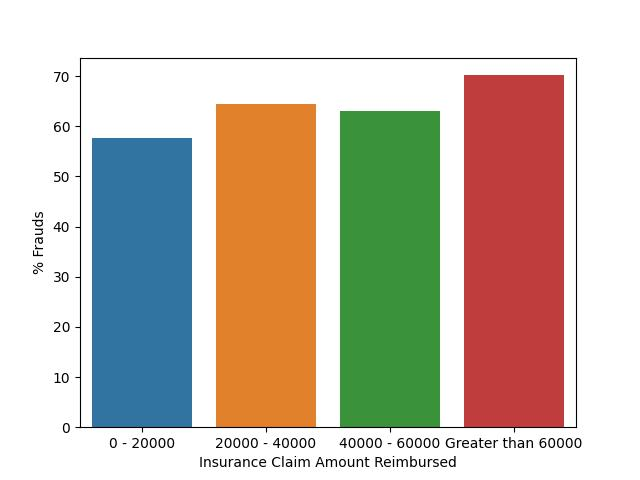
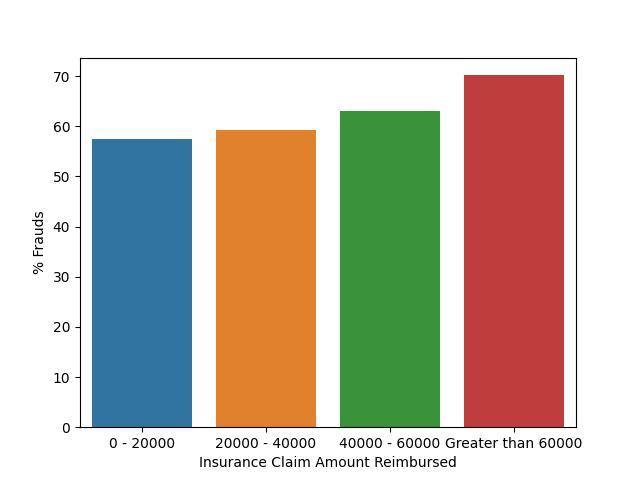
Visualizations Dynamic

Changed region(s): [[0.3125, 0.1875, 0.5, 0.2812]]

diff --git a/FraudDetection/templates/start-page.htm b/FraudDetection/templates/start-page.htm
@@ -167,8 +167,7 @@
             
           <div class="row">
           <div class="column">
-          <img src="{{ url_for('static', filename='images/visualization1.jpg') }}" alt="My" width="380" 
-           height="200">
+          <div id="chart1" class="chart1" style="height:200px; width:380px;"></div>
           </div>
           <div class="column">
           <div id="chart" class="chart" style="height:200px; width:380px;"></div>
@@ -177,12 +176,10 @@
           <div class="row">
           <div class="column">
           
-          <img src="{{ url_for('static', filename='images/visualization3.jpg') }}" alt="My" width="380" 
-           height="200">
+          <div id="chart3" class="chart3" style="height:200px; width:380px;"></div>
           </div>
           <div class="column">
-          <img src="{{ url_for('static', filename='images/visualization4.jpg') }}" alt="My Image" width="380" 
-           height="200">
+          <div id="chart4" class="chart4" style="height:200px; width:380px;"></div>
           </div>
            </div>        
 	</div>
@@ -200,4 +197,19 @@
              <script type="text/javascript">
              var graphs = {{graphJSON | safe}};
              Plotly.plot('chart',graphs,{});        
+</script>
+<script src="https://cdn.plot.ly/plotly-latest.min.js"></script>
+             <script type="text/javascript">
+             var graphs = {{graphjson1 | safe}};
+             Plotly.plot('chart1',graphs,{displaylogo: false});        
+</script>
+<script src="https://cdn.plot.ly/plotly-latest.min.js"></script>
+             <script type="text/javascript">
+             var graphs = {{graphjson3 | safe}};
+             Plotly.plot('chart3',graphs,{displaylogo: false});        
+</script>
+<script src="https://cdn.plot.ly/plotly-latest.min.js"></script>
+             <script type="text/javascript">
+             var graphs = {{graphjson4 | safe}};
+             Plotly.plot('chart4',graphs,{displaylogo: false});        
 </script>

diff --git a/FraudDetection/script/main.py b/FraudDetection/script/main.py
@@ -8,8 +8,8 @@ import os
 import json
 import io
 import pandas as pd
-import seaborn as sns
-import matplotlib.pyplot as plt
+#import seaborn as sns
+#import matplotlib.pyplot as plt
 from flask import Flask, request, render_template, session, Response
 
 sys.path.append(os.path.abspath("./FraudDetection/models"))
@@ -17,7 +17,7 @@ sys.path.append(os.path.abspath("./FraudDetection/models"))
 # pylint: disable=C0413
 # pylint: disable=R1735
 import plotly
-#import plotly.express as px
+import plotly.express as px
 import plotly.graph_objects as go
 from models import loda_anomaly_detection
 from models import ecod_anomaly_detection
@@ -78,8 +78,6 @@ def state_wise_visualization(inpatient_final_df,state_mapping):
              text=grouped['State_Name'], # hover text
              marker_line_color='white', # line markers between states
         ))
-
-
     fig.update_layout(
         title_text = '% of Frauds by State',
         geo = dict(
@@ -107,11 +105,16 @@ def first_visualization(inpatient_final_df):
     grouped['Total'] = grouped['No'] + grouped['Yes']
     grouped['% Frauds'] = grouped['Yes']*100/grouped['Total']
     grouped.sort_values(by = ['% Frauds'],inplace=True, ascending = True)
-    axis = sns.barplot(x = 'Days_Admitted_Bucket',
-            y = '% Frauds',
-            data = grouped)
-    axis.set(xlabel='Number of Days Admitted', ylabel='% Frauds')
-    plt.savefig('FraudDetection/static/images/days_admitted_visualization.jpg')
+    fig = px.bar(grouped, x='Days_Admitted_Bucket', y='% Frauds')
+    fig.update_traces(marker_color=['#071633', '#0DEFFF'], showlegend=False)
+    fig.update_layout(yaxis_range=[40,80], margin={"r":0,"t":0,"l":0,"b":0})
+    return fig
+    #fig.show()
+    #axis = sns.barplot(x = 'Days_Admitted_Bucket',
+    #        y = '% Frauds',
+    #        data = grouped)
+    #axis.set(xlabel='Number of Days Admitted', ylabel='% Frauds')
+    #plt.savefig('FraudDetection/static/images/days_admitted_visualization.jpg')
 
 def third_visualization(inpatient_final_df):
     """
@@ -132,11 +135,15 @@ def third_visualization(inpatient_final_df):
     bottom_five_df = grouped.loc[grouped['Total'] > 50].tail(5)
     grouped = pd.concat([bottom_five_df,top_five_df])
     grouped.sort_values(by = ['% Frauds'],inplace=True, ascending = True)
-    axis = sns.barplot(x = 'DiagnosisGroupCode',
-            y = '% Frauds',
-            data = grouped)
-    axis.set(xlabel='Diagnosis Group Code', ylabel='% Frauds')
-    plt.savefig('FraudDetection/static/images/DiagnosisGroupCode.jpg')
+    fig = px.bar(grouped, x='DiagnosisGroupCode', y='% Frauds')
+    fig.update_traces(marker_color=['#071633', '#0DEFFF'], showlegend=False)
+    fig.update_layout(yaxis_range=[20,80], margin={"r":0,"t":0,"l":0,"b":0})
+    return fig
+    #axis = sns.barplot(x = 'DiagnosisGroupCode',
+    #        y = '% Frauds',
+    #        data = grouped)
+    #axis.set(xlabel='Diagnosis Group Code', ylabel='% Frauds')
+    #plt.savefig('FraudDetection/static/images/DiagnosisGroupCode.jpg')
 
 
 def fourth_visualization(inpatient_final_df):
@@ -155,11 +162,16 @@ def fourth_visualization(inpatient_final_df):
     grouped['% Frauds'] = grouped['Yes']*100/grouped['Total']
     grouped.sort_values(by = ['% Frauds'],inplace=True, ascending = True)
     grouped.loc[grouped['Total'] > 20].head(50)
-    axis = sns.barplot(x = 'InscClaimAmtReimbursed_Bucket',
-            y = '% Frauds',
-            data = grouped)
-    axis.set(xlabel='Insurance Claim Amount Reimbursed', ylabel='% Frauds')
-    plt.savefig('FraudDetection/static/images/Amount_Reimbursed.jpg')
+    fig = px.bar(grouped, x='InscClaimAmtReimbursed_Bucket', y='% Frauds')
+    fig.update_traces(marker_color=['#071633', '#0DEFFF'], showlegend=False)
+    fig.update_layout(yaxis_range=[40,80], margin={"r":0,"t":0,"l":0,"b":0})
+    fig.update_xaxes(tickangle=0)
+    return fig
+    #axis = sns.barplot(x = 'InscClaimAmtReimbursed_Bucket',
+    #        y = '% Frauds',
+    #        data = grouped)
+    #axis.set(xlabel='Insurance Claim Amount Reimbursed', ylabel='% Frauds')
+    #plt.savefig('FraudDetection/static/images/Amount_Reimbursed.jpg')
 JSON_FILES = './FraudDetection/script/json'
 
 if __name__ == '__main__':
@@ -192,16 +204,20 @@ if __name__ == '__main__':
         Returns:
             str: The rendered HTML template.
         """
-        state_mapping = pd.read_csv("data/State_Mapping.csv")
-        inpatient_final_df = pd.read_csv("data/visualization.csv")
+        state_mapping = pd.read_csv("FraudDetection/data/State_Mapping.csv")
+        inpatient_final_df = pd.read_csv("FraudDetection/data/visualization.csv")
         inpatient_final_df['PotentialFraud'] = (inpatient_final_df['PotentialFraud'].
              map({1: 'Yes', 0: 'No'}))
-        first_visualization(inpatient_final_df)
-        third_visualization(inpatient_final_df)
-        fourth_visualization(inpatient_final_df)
+        fig1 = first_visualization(inpatient_final_df)
+        fig3 = third_visualization(inpatient_final_df)
+        fig4 = fourth_visualization(inpatient_final_df)
         fig = state_wise_visualization(inpatient_final_df,state_mapping)
         graphjson = json.dumps(fig, cls=plotly.utils.PlotlyJSONEncoder)
-        return render_template('start-page.htm',graphJSON=graphjson)
+        graphjson1 = json.dumps(fig1, cls=plotly.utils.PlotlyJSONEncoder)
+        graphjson3 = json.dumps(fig3, cls=plotly.utils.PlotlyJSONEncoder)
+        graphjson4 = json.dumps(fig4, cls=plotly.utils.PlotlyJSONEncoder)
+        return render_template('start-page.htm',graphJSON=graphjson,
+        graphjson1 = graphjson1,graphjson3 = graphjson3,graphjson4 = graphjson4)
 
     @app.route('/home-page')
     def home_page():
